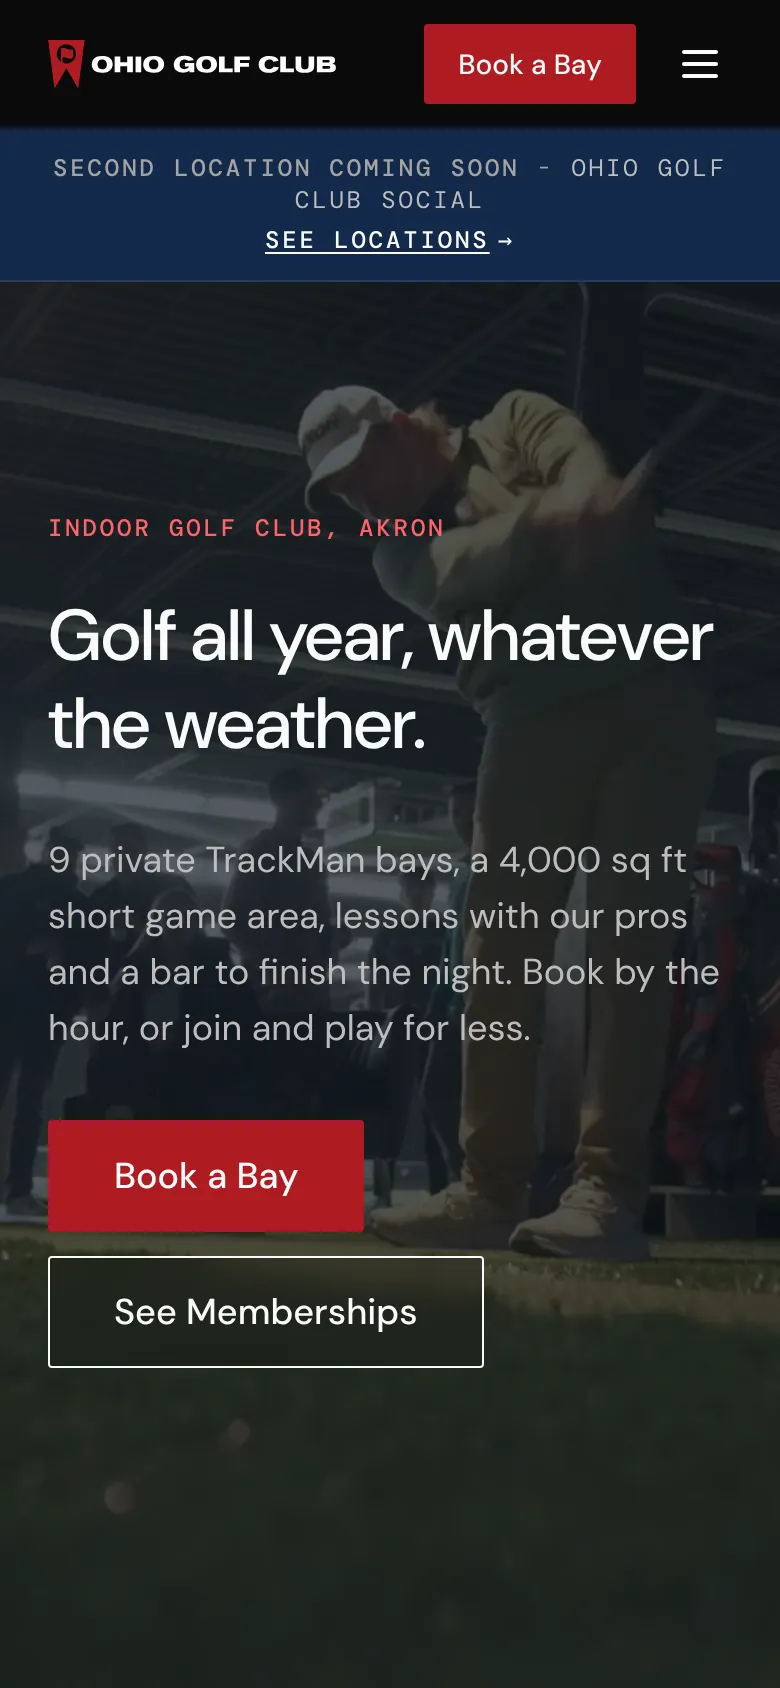
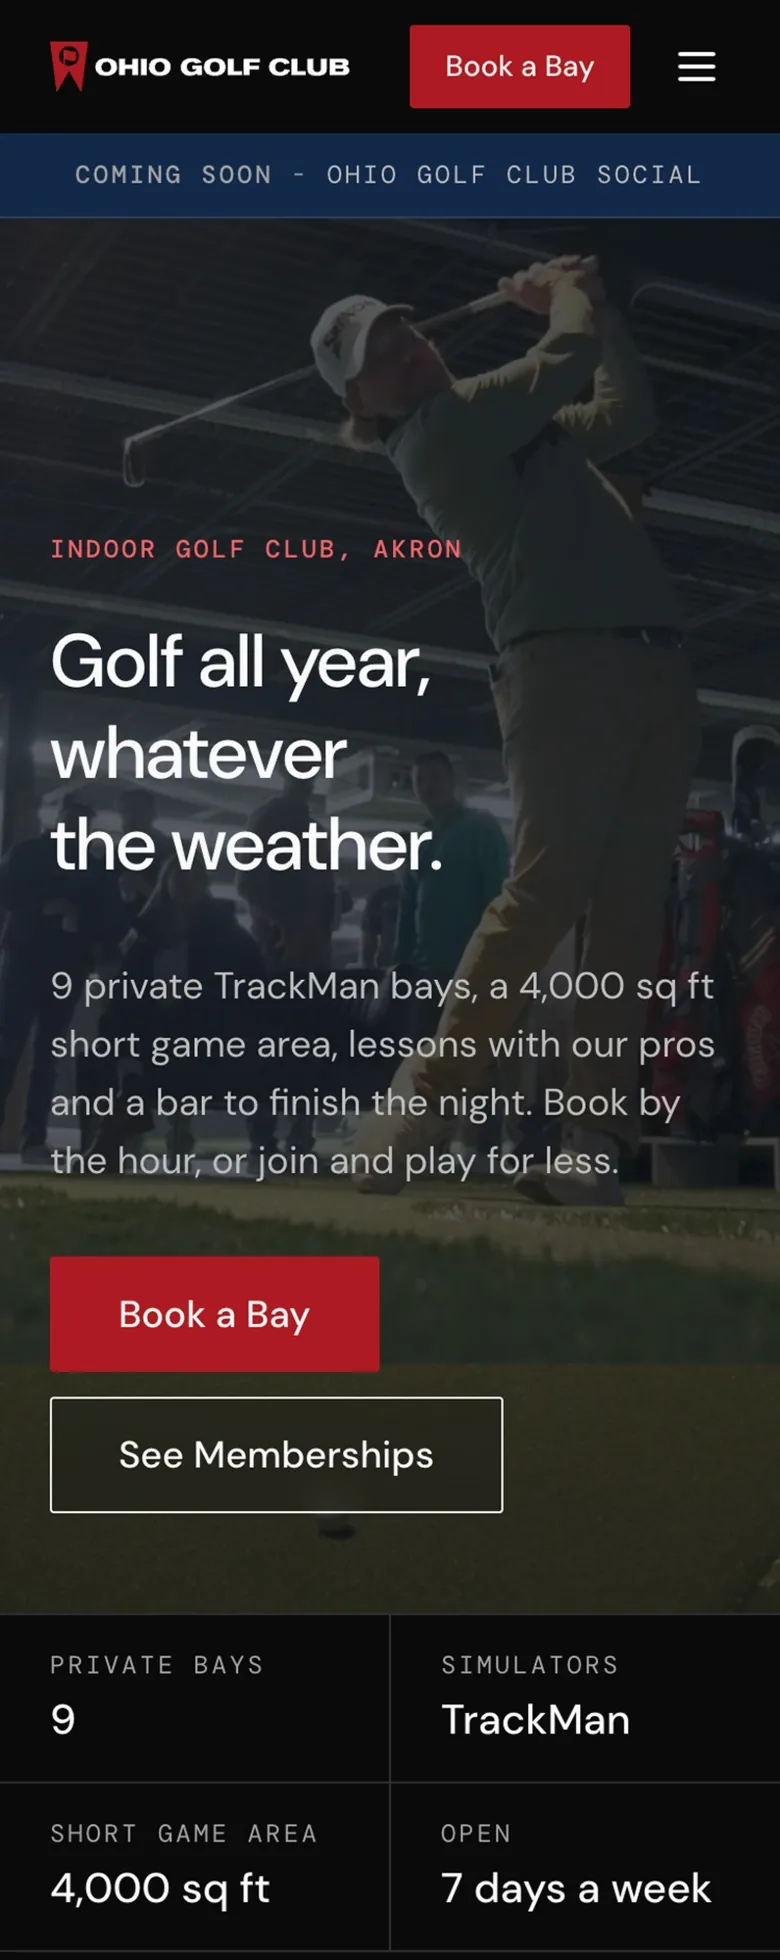
Ohio Golf Club case study: Ryan's review edits, new Search Console data, CMS screenshot
No client name. Plainer audit and rules copy, process steps renamed,
two typefaces, contact section about the benefits, 2026 on the date,
search section framed as a starting point with a clicks chart, data
through 3 Nov 2026, clearer scorecard rows, a note that carousel
images open the full page. Fall League recaptured with every image
loaded, new phone home shot, and the Pages CMS editor screenshot.

Claude-Session: https://claude.ai/code/session_01EZM68AG5WMwEArmnx4iYMr

diff --git a/src/data/projects.ts b/src/data/projects.ts
@@ -338,7 +338,7 @@ const allProjects: Project[] = [
       {
         type: "text",
         heading: "The Project",
-        body: `<p><a href="https://www.ohiogolfclubindoor.com/" target="_blank" rel="noopener noreferrer">Ohio Golf Club Indoor</a> is an indoor golf facility in Akron, Ohio, with nine TrackMan bays, a short game area, lessons, memberships and leagues. It is a real freelance client, outside my day job. The owner, Brandon Boggs, runs the business, and I am the only designer and developer on the site.</p><p>I rebuilt it with an agentic workflow. I set the direction, the rules and the bar, Claude Code wrote most of the code, and nothing reached the live site until I had checked it. The new site is complete on staging and goes live in the next release.</p>`,
+        body: `<p><a href="https://www.ohiogolfclubindoor.com/" target="_blank" rel="noopener noreferrer">Ohio Golf Club Indoor</a> is an indoor golf facility in Akron, Ohio, with nine TrackMan bays, a short game area, lessons, memberships and leagues. It is a real freelance client, outside my day job, and I am the only designer and developer on the site.</p><p>I rebuilt it with an agentic workflow. I set the direction, the rules and the bar, Claude Code wrote most of the code, and nothing reached the live site until I had checked it. The new site is complete on staging and goes live in the next release.</p>`,
       },
       {
         type: "compare",
@@ -348,12 +348,12 @@ const allProjects: Project[] = [
       {
         type: "text",
         heading: "Two kinds of users",
-        body: `<p>The obvious users are golfers: book a bay, find a league, check tonight’s hours, mostly on a phone. The less obvious ones are Brandon and his staff. Before, changing the hours or adding a league meant a message to a developer, and a site the owner can’t update goes stale. So the club’s own team got the same care as its visitors, and every decision below serves one or both.</p>`,
+        body: `<p>The obvious users are golfers: book a bay, find a league, check tonight’s hours, mostly on a phone. The less obvious ones are the client and the staff. Before, changing the hours or adding a league meant a message to a developer, and a site the client can’t update goes stale. So the staff got the same care as the visitors, and every decision below serves one or both.</p>`,
       },
       {
         type: "text",
         heading: "How I worked",
-        body: `<p>I audited the code and the live site before changing anything. The audit found a contact form that could silently lose customer inquiries, 23 known security advisories in the code’s dependencies, and a button nobody could see. Those were fixed first, in one small package.</p><p>Then I wrote the rules the agent works by, in a file it reads at the start of every task. Accessible first, then fast, then a good experience, then search. Build from small shared components. Name colors by their role, not their value, so the planned brand refresh is new values, not a rebuild. Keep prices, hours and copy in one place, never typed twice. And every change takes the same path.</p>`,
+        body: `<p>Before changing anything, I had the agent audit the code and the live site, and I reviewed what it found: a contact form that could silently lose customer inquiries, outdated code with known security issues, and a button nobody could see. Those were fixed first, in one small package.</p><p>Then I set the rules the agent works by. They live in an instructions file it reads at the start of every session, with a separate skill for how changes are released. Priorities come in a fixed order: accessibility, then page speed, then ease of use, then search. Build from small shared components. Name colors by what they do, not what they look like, so a future brand refresh changes values, not code. Keep prices, hours and copy in one place, never typed twice.</p>`,
       },
       {
         type: "process",
@@ -363,18 +363,17 @@ const allProjects: Project[] = [
             note: "Tweak, feature or fix",
             steps: [
               { label: "Brief" },
-              { label: "Branch with its own preview link" },
-              { label: "Staging, the whole site for review" },
-              { label: "Live, only on my say", success: true },
+              { label: "Preview branch" },
+              { label: "Staging" },
+              { label: "Production", success: true },
             ],
           },
         ],
-        caption: "Every branch gets a preview link, so I review real pages, not descriptions of them.",
       },
       {
         type: "text",
         heading: "A design system, not a reskin",
-        body: `<p>I explored three brand directions and five versions of the home page before settling on one dark system for every page: one type family, a small set of color, spacing and corner tokens, and quiet textures instead of stock effects. Every token and shared component is documented on an internal style guide that changes whenever the site does, so the next person, or the next agent, builds from the same parts.</p>`,
+        body: `<p>I explored three brand directions and five versions of the home page before settling on one dark system for every page: two typefaces, DM Sans and DM Mono, a small set of color, spacing and corner tokens, and quiet textures instead of stock effects. Every token and shared component is documented on an internal style guide that changes whenever the site does, so the next person, or the next agent, builds from the same parts.</p>`,
       },
       {
         type: "imageGrid",
@@ -405,8 +404,8 @@ const allProjects: Project[] = [
       },
       {
         type: "text",
-        heading: "Contact, and an honest trade-off",
-        body: `<p>Contact used to be a pop-up on every page. It is now a page, with the form, hours and directions together. Lessons moved the same way, and that one is a real trade-off. Booking a lesson used to open a form in place, and now it takes one more step, to a page. I took the extra step because a page can rank and a pop-up can’t. The lesson page’s title, heading, copy and FAQ follow the searches Search Console showed people already making.</p>`,
+        heading: "Contact and lessons on real pages",
+        body: `<p>Contact used to be a pop-up on every page. It is now a page, with the form, hours and directions together, and lessons have a page of their own. A page can be found in search, linked to and bookmarked, which a pop-up can’t. The lesson page’s title, heading, copy and FAQ follow the searches Search Console showed people already making.</p>`,
       },
       {
         type: "compare",
@@ -424,7 +423,7 @@ const allProjects: Project[] = [
         framed: true,
         images: [
           { src: "/project-ogc-before-mobile-home.webp", alt: "The old Ohio Golf Club homepage on a phone, with a membership hero and two buttons", caption: "Before: home on a phone" },
-          { src: "/project-ogc-after-mobile-home.webp", alt: "The new Ohio Golf Club homepage on a phone, with the announcement strip, a dark hero and Book a Bay and See Memberships buttons", caption: "After: home on a phone" },
+          { src: "/project-ogc-after-mobile-home.webp", alt: "The new Ohio Golf Club homepage on a phone, with a coming soon strip for the second location, a dark hero, Book a Bay and See Memberships buttons, and a band of key facts", caption: "After: home on a phone" },
           { src: "/project-ogc-before-mobile-menu.webp", alt: "The old phone menu, a centered card of links over the homepage", caption: "Before: the phone menu" },
           { src: "/project-ogc-after-mobile-menu.webp", alt: "The new phone menu, a full-screen list of seven rows, with Leagues and Events, Contact and Log in as sections that open in place", caption: "After: the phone menu" },
         ],
@@ -432,7 +431,14 @@ const allProjects: Project[] = [
       {
         type: "text",
         heading: "Why a CMS",
-        body: `<p>The goal was that Brandon’s team never has to ask me to change a price. I set up Pages CMS, a free editor that saves straight into the site’s code repository: no database, no monthly fee and nothing extra to host. Staff edit leagues, events, weekly hours, holidays, the announcement strip, bay rates, membership plans, Google reviews and the team in plain forms.</p><p>The forms are built to be hard to break. Every entry is checked before the site rebuilds, and a broken one stops that update instead of going live. Event dates write their own display text. Plans can be added or removed without copy edits, because no sentence on the site names a plan. And the structure is ready for a second location.</p>`,
+        body: `<p>The goal was that the staff never have to ask me to change a price. I set up Pages CMS, a free editor that saves straight into the site’s code repository: no database, no monthly fee and nothing extra to host. Staff edit leagues, events, weekly hours, holidays, the announcement strip, bay rates, membership plans, Google reviews and the team in plain forms.</p><p>The forms are built to be hard to break. Every entry is checked before the site rebuilds, and a broken one stops that update instead of going live. Event dates write their own display text. Plans can be added or removed without copy edits, because no sentence on the site names a plan. And the structure is ready for a second location.</p>`,
+      },
+      {
+        type: "imageGrid",
+        framed: true,
+        images: [
+          { src: "/project-ogc-cms-editor.webp", alt: "Pages CMS editing the Fall League, with a sidebar of leagues, events, hours, holidays, the announcement strip, team, Google reviews, bay rates and membership plans, and form fields for the title, status, summary, main photo and registration link, each with a short note on where it shows", caption: "Editing a league in Pages CMS, with notes on where each field shows on the site" },
+        ],
       },
       {
         type: "process",
@@ -452,7 +458,15 @@ const allProjects: Project[] = [
       {
         type: "text",
         heading: "Search and answer engines",
-        body: `<p>Search Console showed the club’s pages appearing hundreds of times for searches like “indoor golf” and “golf simulator near me” and earning almost no clicks, because five of six pages shared one generic title. On 23 October every page got its own title and description, one official address, a sitemap and correct link previews.</p><p>The rebuild goes further, for Google and for the AI tools that answer from the same signals. Every league and event describes its dates, place and sign-up status in structured data, alongside breadcrumbs, holiday hours and FAQs. One thing I left out on purpose: star-rating markup for the club’s own reviews, which Google does not show for a business reviewing itself.</p>`,
+        body: `<p>Search Console showed the club’s pages appearing hundreds of times for searches like “indoor golf” and “golf simulator near me” and earning almost no clicks, because five of six pages shared one generic title. On 23 October 2026 every page got its own title and description, one official address, a sitemap and correct link previews.</p><p>The rebuild goes further, for Google and for the AI tools that answer from the same signals. Every league and event describes its dates, place and sign-up status in structured data, alongside breadcrumbs, holiday hours and FAQs. One thing I left out on purpose: star-rating markup for the club’s own reviews, which Google does not show for a business reviewing itself.</p><p>Treat this as a starting point. In the 12 days after the first push, the site averaged about 4.8 clicks and 240 impressions a day, against 0.5 clicks and 38 impressions a day in the 28 days before. It is an early read: September was busy too, and the rebuild itself is not live yet. I will add results here as the weeks come in.</p>`,
+      },
+      {
+        type: "barChart",
+        title: "Daily search clicks",
+        unit: "clicks",
+        points: ogcSearchConsole.map((d) => ({ date: d.date, value: d.clicks })),
+        marker: { date: "2026-10-23", label: "First SEO push" },
+        caption: "Search Console, web search, 1 Sep to 3 Nov 2026. 14 clicks in the 28 days before the push, 57 in the 12 days from it.",
       },
       {
         type: "barChart",
@@ -460,7 +474,7 @@ const allProjects: Project[] = [
         unit: "impressions",
         points: ogcSearchConsole.map((d) => ({ date: d.date, value: d.impressions })),
         marker: { date: "2026-10-23", label: "First SEO push" },
-        caption: "Search Console, web search, 1 Sep to 23 Oct 2026. September was a seasonal peak, with 2,262 impressions in the week of 7 Sep, and October settled to about 250 a week. The baseline is the 28 days before the first push: 14 clicks and 1,060 impressions. The rebuild is not live yet, so its effect is still to come.",
+        caption: "Search Console, web search, 1 Sep to 3 Nov 2026. September was a seasonal peak, with 2,262 impressions in the week of 7 Sep, and October settled to about 250 a week. 1,060 impressions in the 28 days before the push, 2,879 in the 12 days from it.",
       },
       {
         type: "text",
@@ -472,18 +486,18 @@ const allProjects: Project[] = [
         beforeTitle: "Before",
         afterTitle: "After",
         rows: [
-          { label: "Known security advisories", before: "23", after: "2" },
+          { label: "Known security issues in the code", before: "23", after: "2" },
           { label: "Pages with their own title", before: "1 of 6", after: "Every page" },
           { label: "Contact form", before: "Could lose inquiries without anyone knowing", after: "Fixed, and on a page of its own" },
           { label: "Opening hours", before: "Missing", after: "In the footer and on each location, with holidays and open now" },
-          { label: "Content the club edits itself", before: "None", after: "Nine kinds, in Pages CMS" },
-          { label: "Search clicks", before: "About 0.5 a day (28 days to 22 Oct 2026)", after: "Measured six weeks after launch" },
+          { label: "Content the staff edit themselves", before: "None", after: "Leagues, events, hours, prices, reviews and the team" },
+          { label: "Search clicks", before: "About 0.5 a day (28 days to 22 Oct 2026)", after: "About 4.8 a day in the first 12 days (to 3 Nov 2026), still measuring" },
         ],
       },
       {
         type: "text",
         heading: "More of the new site",
-        body: `<p>Memberships with plan cards and a comparison table, a lesson request page, the leagues list, bay rentals, the team and Carl’s Place, the club’s custom simulator business.</p>`,
+        body: `<p>Memberships with plan cards and a comparison table, a lesson request page, the leagues list, bay rentals, the team and Carl’s Place, the club’s custom simulator business. Each slide shows the top of the page. Click an image to see the whole page.</p>`,
       },
       {
         type: "carousel",
@@ -502,7 +516,7 @@ const allProjects: Project[] = [
       {
         type: "text",
         heading: "Working with an agent",
-        body: `<p>The agent was fast and tireless at the parts that used to eat my time: building pages from the system, wiring up the CMS, running the checks before every handoff, and keeping the style guide in step with the site. Where it needed me was judgment: choosing the direction, deciding what not to build, catching the moments where the first answer was wrong, and holding every change to the same bar before Brandon saw it.</p>`,
+        body: `<p>The agent was fast and tireless at the parts that used to eat my time: building pages from the system, wiring up the CMS, running the checks before every handoff, and keeping the style guide in step with the site. Where it needed me was judgment: choosing the direction, deciding what not to build, catching the moments where the first answer was wrong, and holding every change to the same bar before the client saw it.</p>`,
       },
     ],
   },

diff --git a/src/data/ogc-search-console.ts b/src/data/ogc-search-console.ts
@@ -63,4 +63,15 @@ export const ogcSearchConsole: SearchConsoleDay[] = [
   { date: "2026-10-21", clicks: 1, impressions: 41 },
   { date: "2026-10-22", clicks: 0, impressions: 42 },
   { date: "2026-10-23", clicks: 2, impressions: 144 },
+  { date: "2026-10-24", clicks: 4, impressions: 242 },
+  { date: "2026-10-25", clicks: 2, impressions: 355 },
+  { date: "2026-10-26", clicks: 4, impressions: 408 },
+  { date: "2026-10-27", clicks: 9, impressions: 298 },
+  { date: "2026-10-28", clicks: 11, impressions: 205 },
+  { date: "2026-10-29", clicks: 8, impressions: 269 },
+  { date: "2026-10-30", clicks: 1, impressions: 235 },
+  { date: "2026-10-31", clicks: 6, impressions: 159 },
+  { date: "2026-11-01", clicks: 3, impressions: 140 },
+  { date: "2026-11-02", clicks: 2, impressions: 174 },
+  { date: "2026-11-03", clicks: 5, impressions: 250 },
 ];
